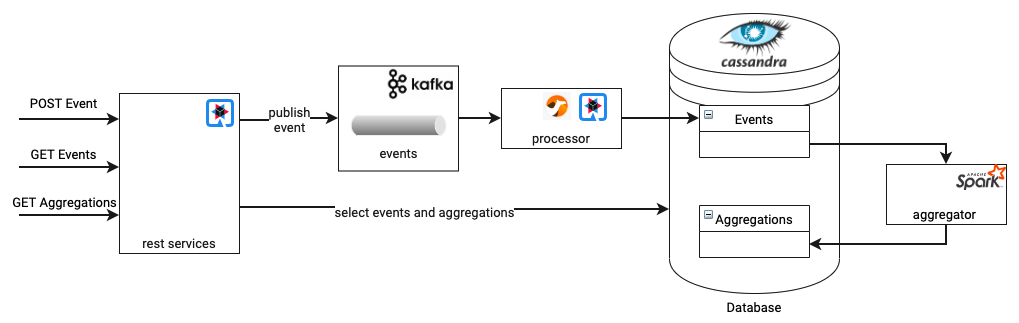
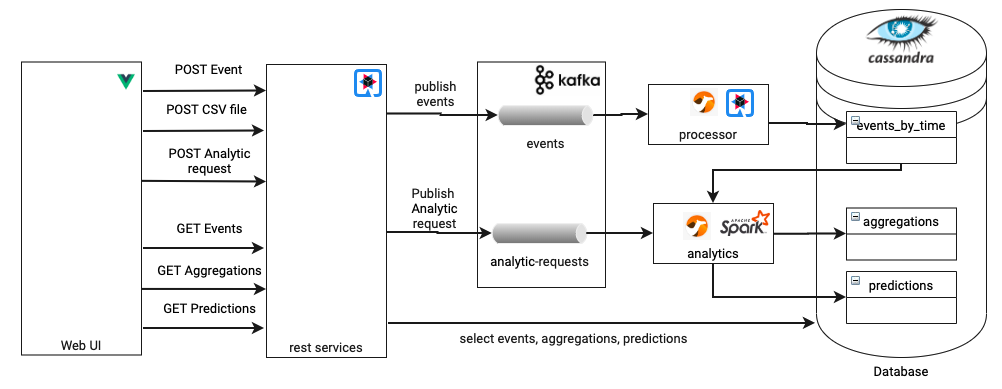
Analytics fixed

diff --git a/infinity-analytics/src/main/java/one/entropy/infinity/aggregator/Predictor.java b/infinity-analytics/src/main/java/one/entropy/infinity/aggregator/Predictor.java
@@ -1,7 +1,6 @@
 package one.entropy.infinity.aggregator;
 
 import com.github.signaflo.timeseries.TimeSeries;
-import com.github.signaflo.timeseries.forecast.Forecast;
 import com.github.signaflo.timeseries.model.arima.Arima;
 import com.github.signaflo.timeseries.model.arima.ArimaOrder;
 import org.apache.spark.api.java.JavaRDD;
@@ -16,8 +15,11 @@ import java.time.ZoneOffset;
 import java.time.ZonedDateTime;
 import java.time.temporal.ChronoUnit;
 import java.util.*;
+import java.util.logging.Level;
+import java.util.logging.Logger;
 
 public class Predictor {
+    private static final Logger LOGGER = Logger.getLogger(Predictor.class.getName());
 
     private static final Map<ChronoUnit, String> FORMATS = Map.of(
             ChronoUnit.YEARS, "yyyy",
@@ -28,7 +30,7 @@ public class Predictor {
             ChronoUnit.SECONDS, "yyyy-MM-DD-HH-mm-ss"
     );
 
-    public static Dataset<Row> forecast(Dataset<Row> aggregation, ChronoUnit horizon, SparkSession spark) throws ParseException {
+    public static Dataset<Row> forecast(Dataset<Row> aggregation, ChronoUnit horizon, SparkSession spark) {
         Row header = aggregation
                 .select("event_group", "event_type", "period")
                 .groupBy("event_group", "event_type")
@@ -97,9 +99,14 @@ public class Predictor {
         return DataTypes.createStructType(fields);
     }
 
-    private static String addPeriod(String period, ChronoUnit horizon) throws ParseException {
+    private static String addPeriod(String period, ChronoUnit horizon) {
         SimpleDateFormat formatter = new SimpleDateFormat(FORMATS.get(horizon));
-        Date data = formatter.parse(period);
+        Date data = null;
+        try {
+            data = formatter.parse(period);
+        } catch (ParseException e) {
+            LOGGER.log(Level.SEVERE, e.getMessage());
+        }
         ZonedDateTime zdt = data.toInstant().atZone(ZoneOffset.UTC).plus(1, horizon);
         Date newDate = Date.from(zdt.toInstant());
         return formatter.format(newDate);

diff --git a/infinity-analytics/src/main/java/one/entropy/infinity/aggregator/AnalyticProcessor.java b/infinity-analytics/src/main/java/one/entropy/infinity/aggregator/AnalyticProcessor.java
@@ -4,6 +4,7 @@ import org.apache.camel.Exchange;
 import org.apache.spark.sql.*;
 
 import java.time.temporal.ChronoUnit;
+import java.util.Arrays;
 import java.util.logging.Level;
 import java.util.logging.Logger;
 
@@ -21,14 +22,14 @@ public class AnalyticProcessor {
         LOGGER.log(Level.INFO, "Process request: {0}", request);
         try {
             Dataset<Row> dataset = selectEvents(request.getEventGroup(), request.getEventType());
-//        Arrays.asList(ChronoUnit.YEARS, ChronoUnit.MONTHS, ChronoUnit.DAYS, ChronoUnit.HOURS, ChronoUnit.MINUTES, ChronoUnit.SECONDS).forEach(horizon -> {
-//            Dataset<Row> aggregation = aggregateEvents(dataset, horizon);
-//
-//            SparkUtil.saveAggregations(aggregation);
-//        });
-            Dataset<Row> aggregation = Aggregator.aggregate(dataset, ChronoUnit.YEARS);
-            Dataset<Row> prediction = Predictor.forecast(aggregation, ChronoUnit.YEARS, spark);
-            SparkUtil.savePredictions(prediction);
+            Arrays.asList(ChronoUnit.YEARS, ChronoUnit.MONTHS, ChronoUnit.DAYS, ChronoUnit.HOURS, ChronoUnit.MINUTES, ChronoUnit.SECONDS)
+                    .forEach(horizon -> {
+                        Dataset<Row> aggregation = Aggregator.aggregate(dataset, horizon);
+                        Dataset<Row> prediction = Predictor.forecast(aggregation, horizon, spark);
+
+                        SparkUtil.saveAggregations(aggregation);
+                        SparkUtil.savePredictions(prediction);
+                    });
         } catch (Exception e) {
             LOGGER.info(e.getMessage());
         } catch (AssertionError a) {
